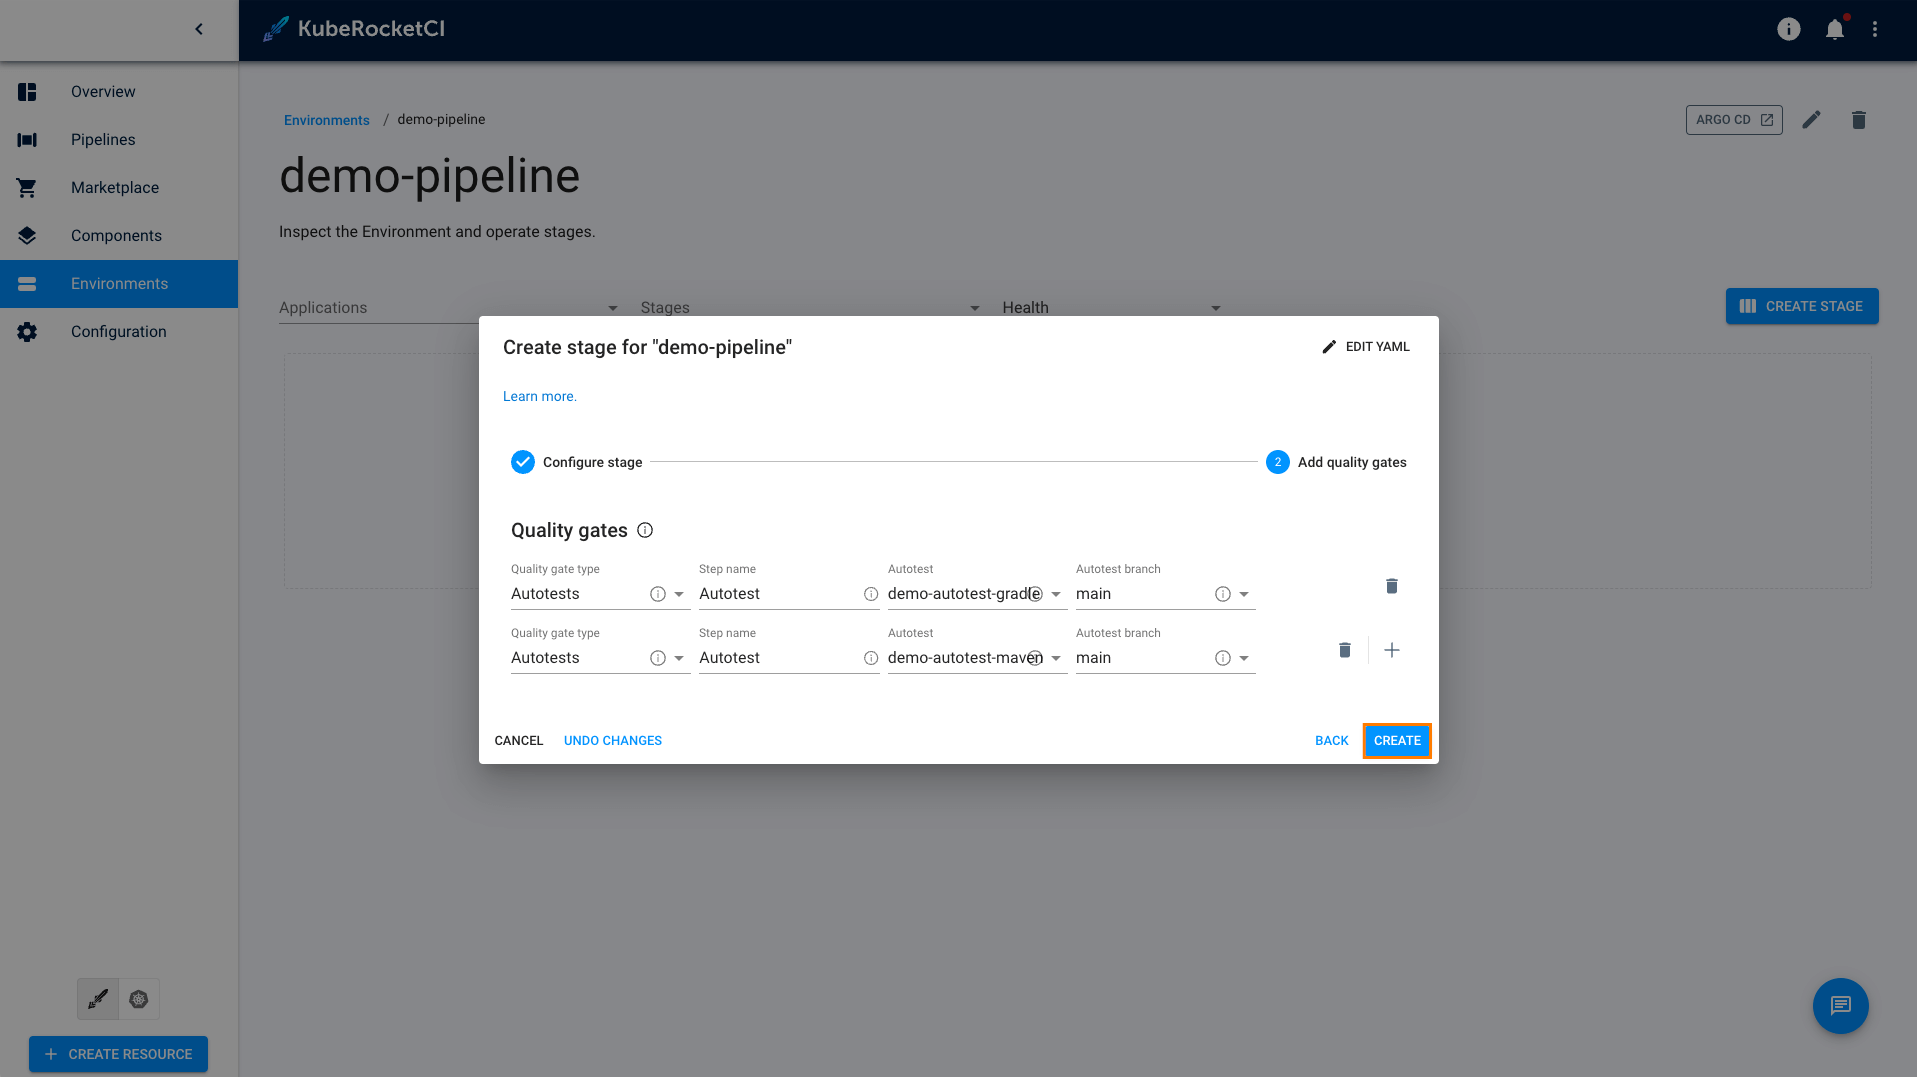
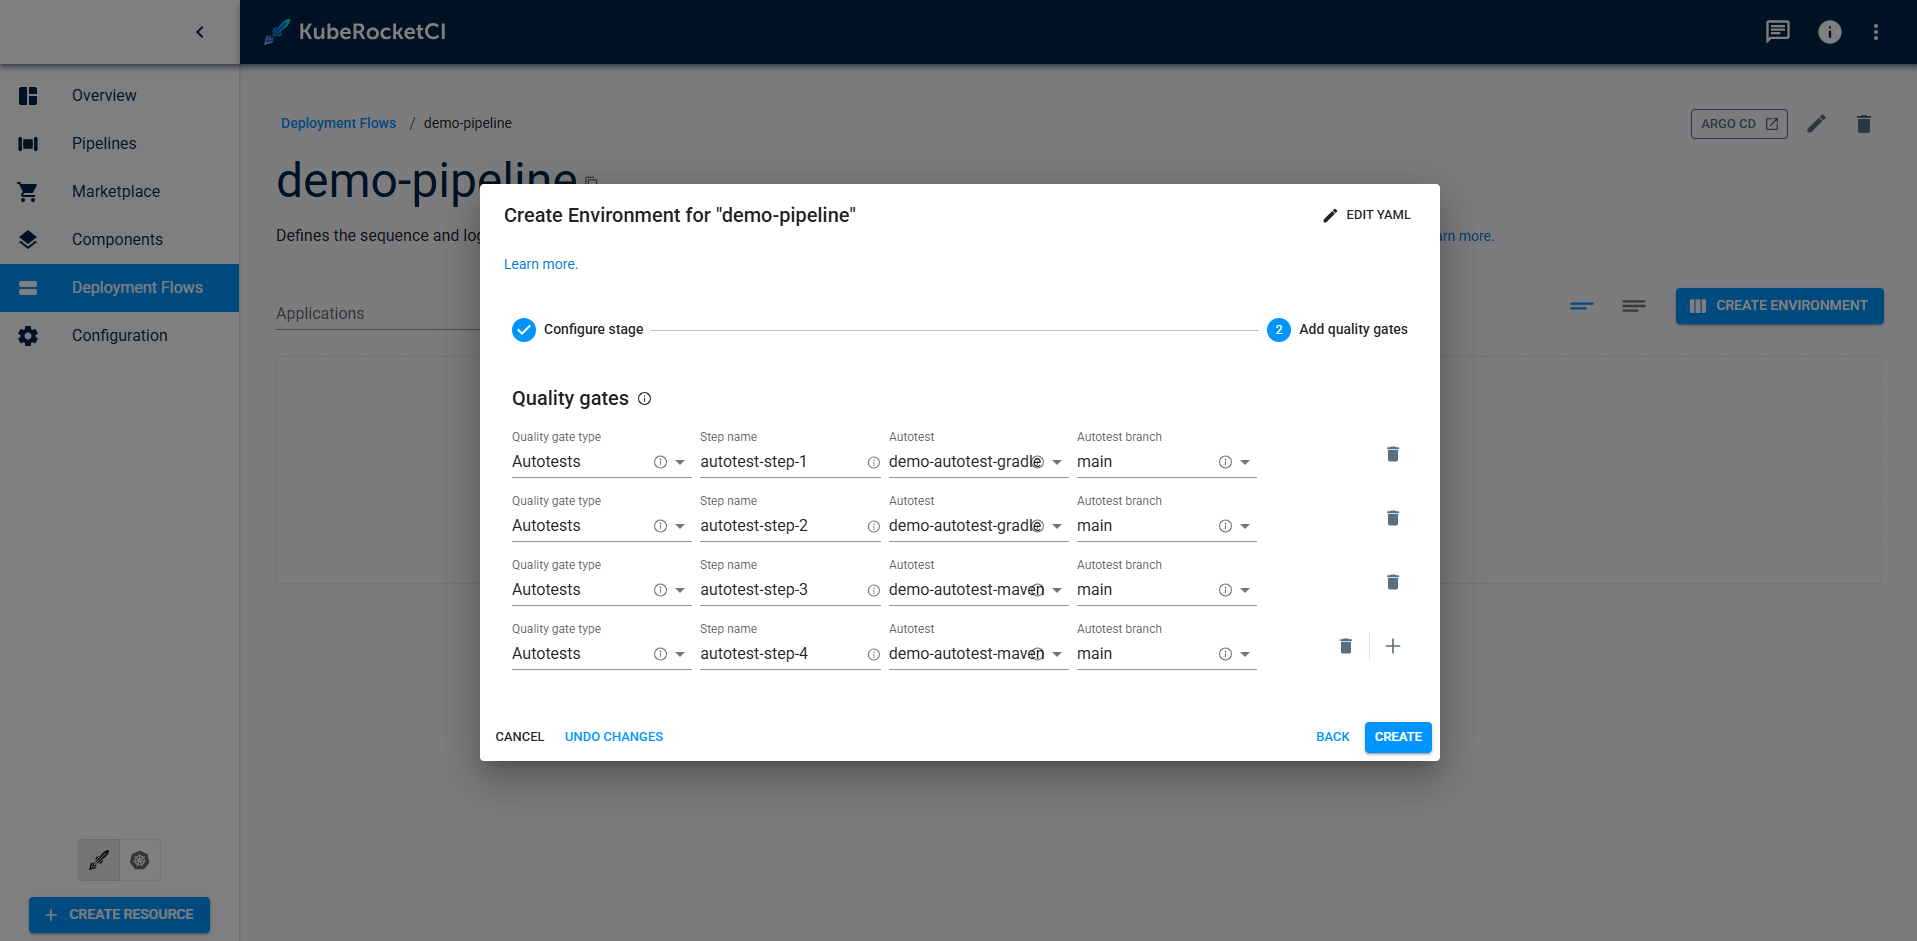
docs: Update autotest quality gate guide and fix Argo CD port-forward service (#590)

diff --git a/docs/use-cases/autotest-as-quality-gate.md b/docs/use-cases/autotest-as-quality-gate.md
@@ -156,7 +156,7 @@ The steps below instruct how to create autotests in KubeRocketCI:
     - Component name: `demo-autotest-gradle`
     - Description: `demo-autotest-gradle`
     - Autotest code language: `Java`
-    - Language version/framework: `Java11`
+    - Language version/framework: `Java25`
     - Build tool: `Gradle`
     - Autotest report framework: `Allure`
 
@@ -177,7 +177,7 @@ The steps below instruct how to create autotests in KubeRocketCI:
     - Component name: `demo-autotest-maven`
     - Description: `demo-autotest-maven`
     - Autotest code language: `Java`
-    - Language version/framework: `Java11`
+    - Language version/framework: `Java25`
     - Build tool: `Maven`
     - Autotest report framework: `Allure`
     - Default branch: `main`
@@ -238,18 +238,47 @@ Now that applications and autotests are created, create pipeline for them by fol
     First Quality Gate:
 
     - Quality gate type: `Autotest`
-    - Step name: `Autotest`
+    - Step name: `autotest-step-1`
     - Autotest: `demo-autotest-gradle`
     - Autotest branch: `main`
 
     Second Quality Gate:
 
     - Quality gate type: `Autotest`
-    - Step name: `Autotest`
+    - Step name: `autotest-step-2`
+    - Autotest: `demo-autotest-gradle`
+    - Autotest branch: `main`
+
+    Third Quality Gate:
+
+    - Quality gate type: `Autotest`
+    - Step name: `autotest-step-3`
     - Autotest: `demo-autotest-maven`
     - Autotest branch: `main`
 
+    Fourth Quality Gate:
+
+    - Quality gate type: `Autotest`
+    - Step name: `autotest-step-4`
+    - Autotest: `demo-autotest-maven`
+    - Autotest branch: `main`
+
+
     ![Quality gates tab](../assets/use-cases/autotest-as-quality-gate/quality_gates_tab.png "Quality gates tab")
+
+    :::note
+        The same automated test can be executed multiple times within a single deployment pipeline using different step names. To achieve this, specify a unique step name as a parameter when triggering the Tekton automated test pipeline. Verify that the key names in demo-autotest-gradle/run.json and demo-autotest-maven/run.json comply with the required template and update them if necessary.
+
+         ```yaml title="demo-autotest-gradle/run.json"
+            {
+                "comment": "step-name: <deployment Flow>-<environment>-<autotest step name>",
+                "demo-pipeline-dev-autotest-step-1": "gradle -q hello",
+                "demo-pipeline-dev-autotest-step-2": "gradle -q hello",
+                "demo-pipeline-dev-autotest-step-3": "mvn antrun:run@hello -q",
+                "demo-pipeline-dev-autotest-step-4": "mvn antrun:run@hello -q"
+            }
+        ```
+    :::
 
 11. Repeat the steps 8-10 to create one more stage with the parameters below:
 

diff --git a/versioned_docs/version-3.10/use-cases/autotest-as-quality-gate.md b/versioned_docs/version-3.10/use-cases/autotest-as-quality-gate.md
@@ -156,7 +156,7 @@ The steps below instruct how to create autotests in KubeRocketCI:
     - Component name: `demo-autotest-gradle`
     - Description: `demo-autotest-gradle`
     - Autotest code language: `Java`
-    - Language version/framework: `Java11`
+    - Language version/framework: `Java25`
     - Build tool: `Gradle`
     - Autotest report framework: `Allure`
 
@@ -177,7 +177,7 @@ The steps below instruct how to create autotests in KubeRocketCI:
     - Component name: `demo-autotest-maven`
     - Description: `demo-autotest-maven`
     - Autotest code language: `Java`
-    - Language version/framework: `Java11`
+    - Language version/framework: `Java25`
     - Build tool: `Maven`
     - Autotest report framework: `Allure`
     - Default branch: `main`
@@ -238,18 +238,47 @@ Now that applications and autotests are created, create pipeline for them by fol
     First Quality Gate:
 
     - Quality gate type: `Autotest`
-    - Step name: `Autotest`
+    - Step name: `autotest-step-1`
     - Autotest: `demo-autotest-gradle`
     - Autotest branch: `main`
 
     Second Quality Gate:
 
     - Quality gate type: `Autotest`
-    - Step name: `Autotest`
+    - Step name: `autotest-step-2`
+    - Autotest: `demo-autotest-gradle`
+    - Autotest branch: `main`
+
+    Third Quality Gate:
+
+    - Quality gate type: `Autotest`
+    - Step name: `autotest-step-3`
     - Autotest: `demo-autotest-maven`
     - Autotest branch: `main`
 
+    Fourth Quality Gate:
+
+    - Quality gate type: `Autotest`
+    - Step name: `autotest-step-4`
+    - Autotest: `demo-autotest-maven`
+    - Autotest branch: `main`
+
+
     ![Quality gates tab](../assets/use-cases/autotest-as-quality-gate/quality_gates_tab.png "Quality gates tab")
+
+    :::note
+        The same automated test can be executed multiple times within a single deployment pipeline using different step names. To achieve this, specify a unique step name as a parameter when triggering the Tekton automated test pipeline. Verify that the key names in demo-autotest-gradle/run.json and demo-autotest-maven/run.json comply with the required template and update them if necessary.
+
+         ```yaml title="demo-autotest-gradle/run.json"
+            {
+                "comment": "step-name: <deployment Flow>-<environment>-<autotest step name>",
+                "demo-pipeline-dev-autotest-step-1": "gradle -q hello",
+                "demo-pipeline-dev-autotest-step-2": "gradle -q hello",
+                "demo-pipeline-dev-autotest-step-3": "mvn antrun:run@hello -q",
+                "demo-pipeline-dev-autotest-step-4": "mvn antrun:run@hello -q"
+            }
+        ```
+    :::
 
 11. Repeat the steps 8-10 to create one more stage with the parameters below:
 

diff --git a/versioned_docs/version-3.11/use-cases/autotest-as-quality-gate.md b/versioned_docs/version-3.11/use-cases/autotest-as-quality-gate.md
@@ -156,7 +156,7 @@ The steps below instruct how to create autotests in KubeRocketCI:
     - Component name: `demo-autotest-gradle`
     - Description: `demo-autotest-gradle`
     - Autotest code language: `Java`
-    - Language version/framework: `Java11`
+    - Language version/framework: `Java25`
     - Build tool: `Gradle`
     - Autotest report framework: `Allure`
 
@@ -177,7 +177,7 @@ The steps below instruct how to create autotests in KubeRocketCI:
     - Component name: `demo-autotest-maven`
     - Description: `demo-autotest-maven`
     - Autotest code language: `Java`
-    - Language version/framework: `Java11`
+    - Language version/framework: `Java25`
     - Build tool: `Maven`
     - Autotest report framework: `Allure`
     - Default branch: `main`
@@ -238,18 +238,47 @@ Now that applications and autotests are created, create pipeline for them by fol
     First Quality Gate:
 
     - Quality gate type: `Autotest`
-    - Step name: `Autotest`
+    - Step name: `autotest-step-1`
     - Autotest: `demo-autotest-gradle`
     - Autotest branch: `main`
 
     Second Quality Gate:
 
     - Quality gate type: `Autotest`
-    - Step name: `Autotest`
+    - Step name: `autotest-step-2`
+    - Autotest: `demo-autotest-gradle`
+    - Autotest branch: `main`
+
+    Third Quality Gate:
+
+    - Quality gate type: `Autotest`
+    - Step name: `autotest-step-3`
     - Autotest: `demo-autotest-maven`
     - Autotest branch: `main`
 
+    Fourth Quality Gate:
+
+    - Quality gate type: `Autotest`
+    - Step name: `autotest-step-4`
+    - Autotest: `demo-autotest-maven`
+    - Autotest branch: `main`
+
+
     ![Quality gates tab](../assets/use-cases/autotest-as-quality-gate/quality_gates_tab.png "Quality gates tab")
+
+    :::note
+        The same automated test can be executed multiple times within a single deployment pipeline using different step names. To achieve this, specify a unique step name as a parameter when triggering the Tekton automated test pipeline. Verify that the key names in demo-autotest-gradle/run.json and demo-autotest-maven/run.json comply with the required template and update them if necessary.
+
+         ```yaml title="demo-autotest-gradle/run.json"
+            {
+                "comment": "step-name: <deployment Flow>-<environment>-<autotest step name>",
+                "demo-pipeline-dev-autotest-step-1": "gradle -q hello",
+                "demo-pipeline-dev-autotest-step-2": "gradle -q hello",
+                "demo-pipeline-dev-autotest-step-3": "mvn antrun:run@hello -q",
+                "demo-pipeline-dev-autotest-step-4": "mvn antrun:run@hello -q"
+            }
+        ```
+    :::
 
 11. Repeat the steps 8-10 to create one more stage with the parameters below:
 

diff --git a/versioned_docs/version-3.12/use-cases/autotest-as-quality-gate.md b/versioned_docs/version-3.12/use-cases/autotest-as-quality-gate.md
@@ -156,7 +156,7 @@ The steps below instruct how to create autotests in KubeRocketCI:
     - Component name: `demo-autotest-gradle`
     - Description: `demo-autotest-gradle`
     - Autotest code language: `Java`
-    - Language version/framework: `Java11`
+    - Language version/framework: `Java25`
     - Build tool: `Gradle`
     - Autotest report framework: `Allure`
 
@@ -177,7 +177,7 @@ The steps below instruct how to create autotests in KubeRocketCI:
     - Component name: `demo-autotest-maven`
     - Description: `demo-autotest-maven`
     - Autotest code language: `Java`
-    - Language version/framework: `Java11`
+    - Language version/framework: `Java25`
     - Build tool: `Maven`
     - Autotest report framework: `Allure`
     - Default branch: `main`
@@ -238,18 +238,47 @@ Now that applications and autotests are created, create pipeline for them by fol
     First Quality Gate:
 
     - Quality gate type: `Autotest`
-    - Step name: `Autotest`
+    - Step name: `autotest-step-1`
     - Autotest: `demo-autotest-gradle`
     - Autotest branch: `main`
 
     Second Quality Gate:
 
     - Quality gate type: `Autotest`
-    - Step name: `Autotest`
+    - Step name: `autotest-step-2`
+    - Autotest: `demo-autotest-gradle`
+    - Autotest branch: `main`
+
+    Third Quality Gate:
+
+    - Quality gate type: `Autotest`
+    - Step name: `autotest-step-3`
     - Autotest: `demo-autotest-maven`
     - Autotest branch: `main`
 
+    Fourth Quality Gate:
+
+    - Quality gate type: `Autotest`
+    - Step name: `autotest-step-4`
+    - Autotest: `demo-autotest-maven`
+    - Autotest branch: `main`
+
+
     ![Quality gates tab](../assets/use-cases/autotest-as-quality-gate/quality_gates_tab.png "Quality gates tab")
+
+    :::note
+        The same automated test can be executed multiple times within a single deployment pipeline using different step names. To achieve this, specify a unique step name as a parameter when triggering the Tekton automated test pipeline. Verify that the key names in demo-autotest-gradle/run.json and demo-autotest-maven/run.json comply with the required template and update them if necessary.
+
+         ```yaml title="demo-autotest-gradle/run.json"
+            {
+                "comment": "step-name: <deployment Flow>-<environment>-<autotest step name>",
+                "demo-pipeline-dev-autotest-step-1": "gradle -q hello",
+                "demo-pipeline-dev-autotest-step-2": "gradle -q hello",
+                "demo-pipeline-dev-autotest-step-3": "mvn antrun:run@hello -q",
+                "demo-pipeline-dev-autotest-step-4": "mvn antrun:run@hello -q"
+            }
+        ```
+    :::
 
 11. Repeat the steps 8-10 to create one more stage with the parameters below:
 

diff --git a/docs/operator-guide/install-argocd.md b/docs/operator-guide/install-argocd.md
@@ -112,7 +112,7 @@ Follow the steps below to install Argo CD using Helm:
 3. Port-forward Argo CD service using kubectl:
 
     ```bash
-    kubectl port-forward svc/argo-argocd-server 8080:80 -n argocd
+    kubectl port-forward svc/argocd-server 8080:80 -n argocd
     ```
 
 4. Login to the Argo CD server in browser using login and password:

diff --git a/versioned_docs/version-3.10/operator-guide/install-argocd.md b/versioned_docs/version-3.10/operator-guide/install-argocd.md
@@ -112,7 +112,7 @@ Follow the steps below to install Argo CD using Helm:
 3. Port-forward Argo CD service using kubectl:
 
     ```bash
-    kubectl port-forward svc/argo-argocd-server 8080:80 -n argocd
+    kubectl port-forward svc/argocd-server 8080:80 -n argocd
     ```
 
 4. Login to the Argo CD server in browser using login and password:

diff --git a/versioned_docs/version-3.11/operator-guide/install-argocd.md b/versioned_docs/version-3.11/operator-guide/install-argocd.md
@@ -112,7 +112,7 @@ Follow the steps below to install Argo CD using Helm:
 3. Port-forward Argo CD service using kubectl:
 
     ```bash
-    kubectl port-forward svc/argo-argocd-server 8080:80 -n argocd
+    kubectl port-forward svc/argocd-server 8080:80 -n argocd
     ```
 
 4. Login to the Argo CD server in browser using login and password:

diff --git a/versioned_docs/version-3.12/operator-guide/install-argocd.md b/versioned_docs/version-3.12/operator-guide/install-argocd.md
@@ -112,7 +112,7 @@ Follow the steps below to install Argo CD using Helm:
 3. Port-forward Argo CD service using kubectl:
 
     ```bash
-    kubectl port-forward svc/argo-argocd-server 8080:80 -n argocd
+    kubectl port-forward svc/argocd-server 8080:80 -n argocd
     ```
 
 4. Login to the Argo CD server in browser using login and password:
